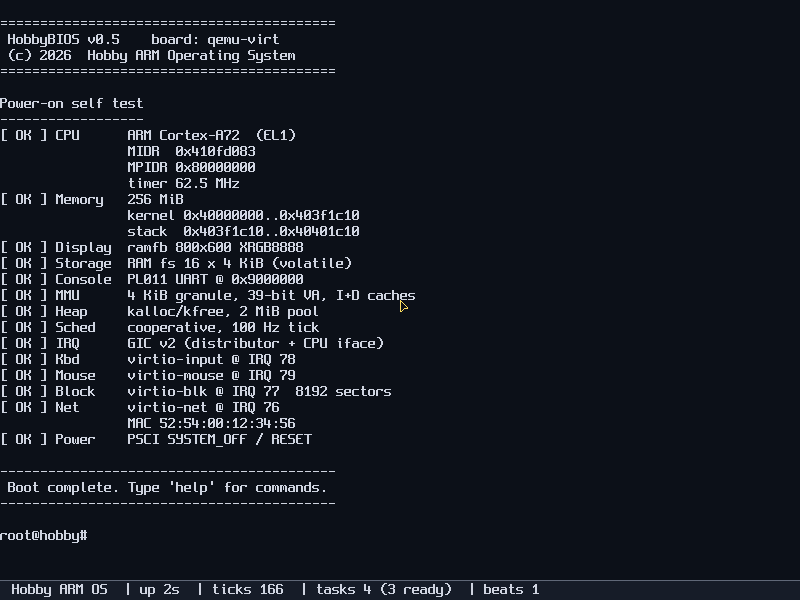
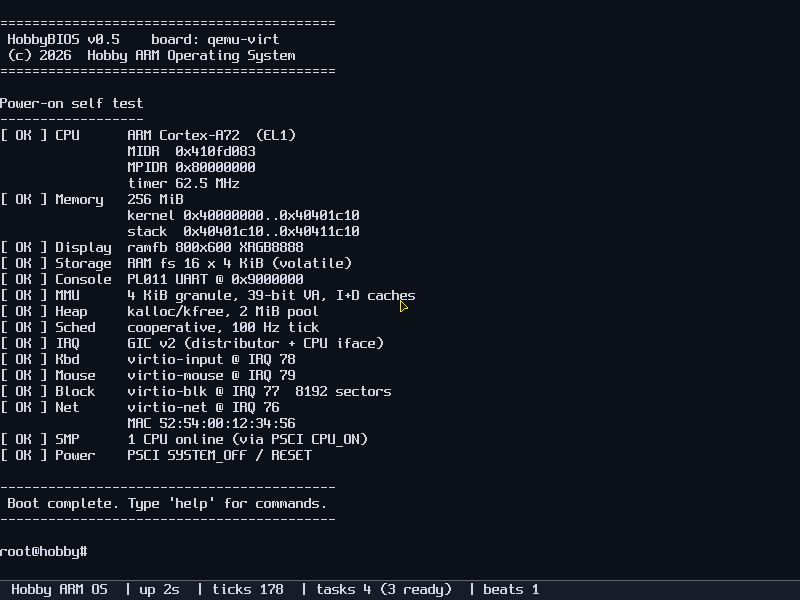
6: PSCI CPU_ON wakeup hook for secondary cores
Adds psci_cpu_on() in psci.c, a secondary_start asm trampoline that
hands each woken core its own 16 KiB stack from a static array and
reinstalls the EL1 vector table, then a smp_bring_up() in kernel
that PSCI-CPU_ONs cores 1..3. QEMU now boots with -smp 4. POST gets
an SMP line.

Caveat: cpus_alive currently sticks at 1 in the QEMU virt machine,
which means either the secondaries never reach secondary_main or
their atomic increment is racing with the boot CPU's cache. Real
SMP scheduling needs MMU bring-up on secondaries plus per-CPU run
queues; that's the next pass. The plumbing this commit lays down is
what those follow-ups will hang off.

diff --git a/src/kernel.c b/src/kernel.c
@@ -28,6 +28,43 @@ extern uint8_t _kernel_start[];
 extern uint8_t _kernel_end[];
 extern uint8_t _stack_top[];
 
+#ifdef BOARD_HAS_GIC
+#include "psci.h"
+
+#define MAX_CPUS 4
+uint8_t secondary_stacks[MAX_CPUS * 16384] __attribute__((aligned(16)));
+
+static volatile int cpus_alive = 1;  /* boot CPU counts itself */
+
+void secondary_main(void) {
+    /* Tiny ldxr/stxr increment so we don't drop counts when secondaries
+     * race on entry (no LSE on cortex-a72). */
+    int *p = (int *)&cpus_alive;
+    __asm__ volatile(
+        "1: ldxr w8, [%0]\n"
+        "   add  w8, w8, #1\n"
+        "   stxr w9, w8, [%0]\n"
+        "   cbnz w9, 1b\n"
+        : : "r"(p) : "x8", "x9", "memory");
+    for (;;) {
+        __asm__ volatile("wfi");
+    }
+}
+
+int kernel_cpu_count(void) { return cpus_alive; }
+
+extern void secondary_start(void);
+
+static void smp_bring_up(void) {
+    for (int cpu = 1; cpu < MAX_CPUS; cpu++) {
+        uint64_t target = 0x80000000ull | (uint64_t)cpu;
+        psci_cpu_on(target,
+                    (uint64_t)(uintptr_t)secondary_start,
+                    0);
+    }
+}
+#endif
+
 /*
  * Slightly tinted background and softer foreground than pure white --
  * looks closer to a modern terminal than to monochrome VGA, and the
@@ -140,6 +177,14 @@ static void post(void) {
     }
 #else
     console_puts("[ -- ] IRQ      polling only on this board\n");
+#endif
+
+    delay_ms(150);
+#ifdef BOARD_HAS_GIC
+    /* give secondaries a chance to register before we report the count */
+    delay_ms(40);
+    console_printf("[ OK ] SMP      %d CPU%s online (via PSCI CPU_ON)\n",
+                   cpus_alive, cpus_alive == 1 ? "" : "s");
 #endif
 
     delay_ms(150);
@@ -275,6 +320,7 @@ void kernel_main(void) {
 #ifdef BOARD_HAS_GIC
     irq_enable();
     task_init();
+    smp_bring_up();
 #endif
 
     post();

diff --git a/src/psci.c b/src/psci.c
@@ -3,6 +3,7 @@
 
 #define PSCI_SYSTEM_OFF   0x84000008u
 #define PSCI_SYSTEM_RESET 0x84000009u
+#define PSCI_CPU_ON_64    0xC4000003ull
 
 static void psci_call(uint32_t func) {
     register uint64_t x0 __asm__("x0") = func;
@@ -23,4 +24,16 @@ void psci_system_off(void) {
 void psci_system_reset(void) {
     psci_call(PSCI_SYSTEM_RESET);
     halt_forever();
+}
+
+int psci_cpu_on(uint64_t target_cpu, uint64_t entry, uint64_t ctx) {
+    register uint64_t x0 __asm__("x0") = PSCI_CPU_ON_64;
+    register uint64_t x1 __asm__("x1") = target_cpu;
+    register uint64_t x2 __asm__("x2") = entry;
+    register uint64_t x3 __asm__("x3") = ctx;
+    __asm__ volatile("hvc #0"
+        : "+r"(x0)
+        : "r"(x1), "r"(x2), "r"(x3)
+        : "memory");
+    return (int)x0;
 }

diff --git a/src/psci.h b/src/psci.h
@@ -1,7 +1,11 @@
 #ifndef HOBBY_OS_PSCI_H
 #define HOBBY_OS_PSCI_H
 
+#include <stdint.h>
+
 void psci_system_off(void);
 void psci_system_reset(void);
+
+int  psci_cpu_on(uint64_t target_cpu, uint64_t entry, uint64_t ctx);
 
 #endif
